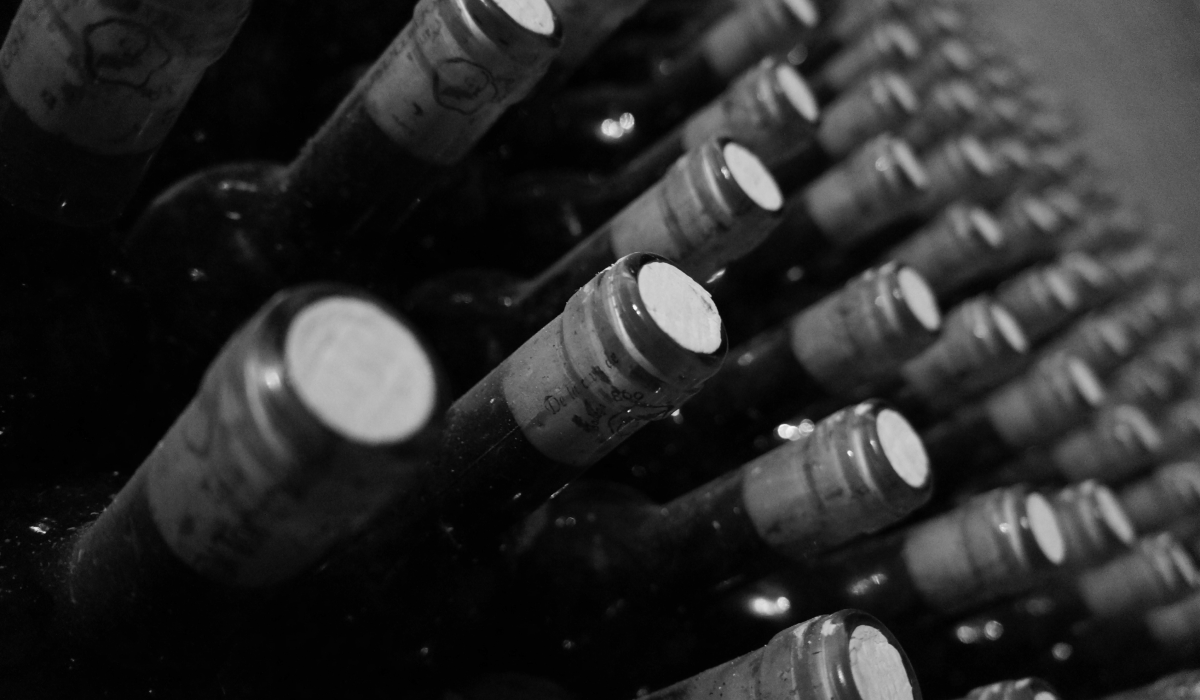
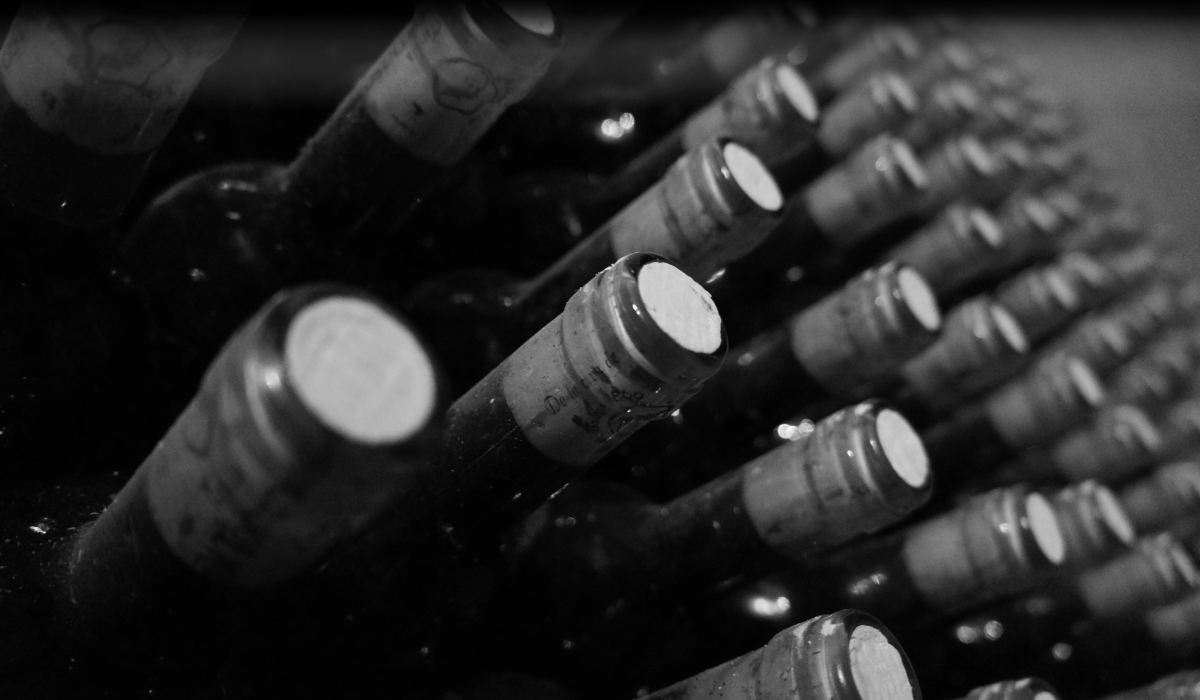
cambios desechables

diff --git a/vinosydelicatessendecartagenaweb/src/components/Inicio.vue b/vinosydelicatessendecartagenaweb/src/components/Inicio.vue
@@ -24,16 +24,16 @@ export default {
 <!-- Add "scoped" attribute to limit CSS to this component only -->
 <style scoped>
 .inicio_section{
-    background-image: url('../assets/images/inicio.png');
+    background-image: url('../assets/images/inicioDegradado.png');
     height: 100vh;
     position: relative;
     background-size: cover;
     background-repeat: no-repeat;
-    background-position: top;
+    background-position: bottom;
     text-align: center;
     animation-name: fadeAnimation;
     animation-duration: 3s;
-    border-bottom: 5px solid #923E50;
+    /* border-bottom: 5px solid #923E50; */
 }
 @keyframes fadeAnimation {
   from {opacity: 0.2;}
@@ -47,6 +47,7 @@ export default {
     -ms-transform: translateY(-50%);
     -webkit-transform: translateY(-50%);
     transform: translateY(-50%);
+    text-shadow: 0 0 20px rgba(0, 0, 0, 0.8);
 }
 
 @media (min-width: 768px) {

diff --git a/vinosydelicatessendecartagenaweb/src/components/QuienesSomos.vue b/vinosydelicatessendecartagenaweb/src/components/QuienesSomos.vue
@@ -36,9 +36,9 @@ export default {
     background-position: top;
     text-align: center;
   align-items: center;
-  justify-content: center;
+  justify-content: flex-start;
   flex-direction: column;
-  border-bottom: 5px solid #923E50;
+  border-bottom: 25px solid #923E50;
 }
 @media (min-width: 768px) {
   .quienes_somos-section{
@@ -50,7 +50,9 @@ export default {
 .logo_image{
   height: 300px;
 }
-
+.quienes__somos-title{
+  text-shadow: 0 0 20px rgba(0, 0, 0, 0.8);
+}
 .quienes-somos-texto{
   padding: 15px;
   text-align: center;
@@ -78,7 +80,8 @@ export default {
 
 @media (min-width: 768px) {
  .quienes__somos-title{
-  margin-bottom: 60px;
+  margin-bottom: 20px;
+  margin-top:60px;
 }
 }
 

diff --git a/vinosydelicatessendecartagenaweb/src/components/FormularioContacto.vue b/vinosydelicatessendecartagenaweb/src/components/FormularioContacto.vue
@@ -89,12 +89,11 @@ export default {
 <!-- Add "scoped" attribute to limit CSS to this component only -->
 <style scoped>
 .formulario-contacto{
-  padding: 80px 50px 50px;
+  padding: 40px 50px 50px;
   max-width: 600px;
   margin: auto;
 }
 .formulario__contacto_section--title{
-  margin-top: 50px;
   color: black;
 }
 .errorsLabel{

diff --git a/vinosydelicatessendecartagenaweb/src/assets/styles/styleGlobal.css b/vinosydelicatessendecartagenaweb/src/assets/styles/styleGlobal.css
@@ -30,6 +30,7 @@
     font-weight: 400;
     font-size: 2.5rem;
     padding: 20px 20px;
+    margin-top: 30px;
     margin-bottom: 0;
     color: white;
   }
